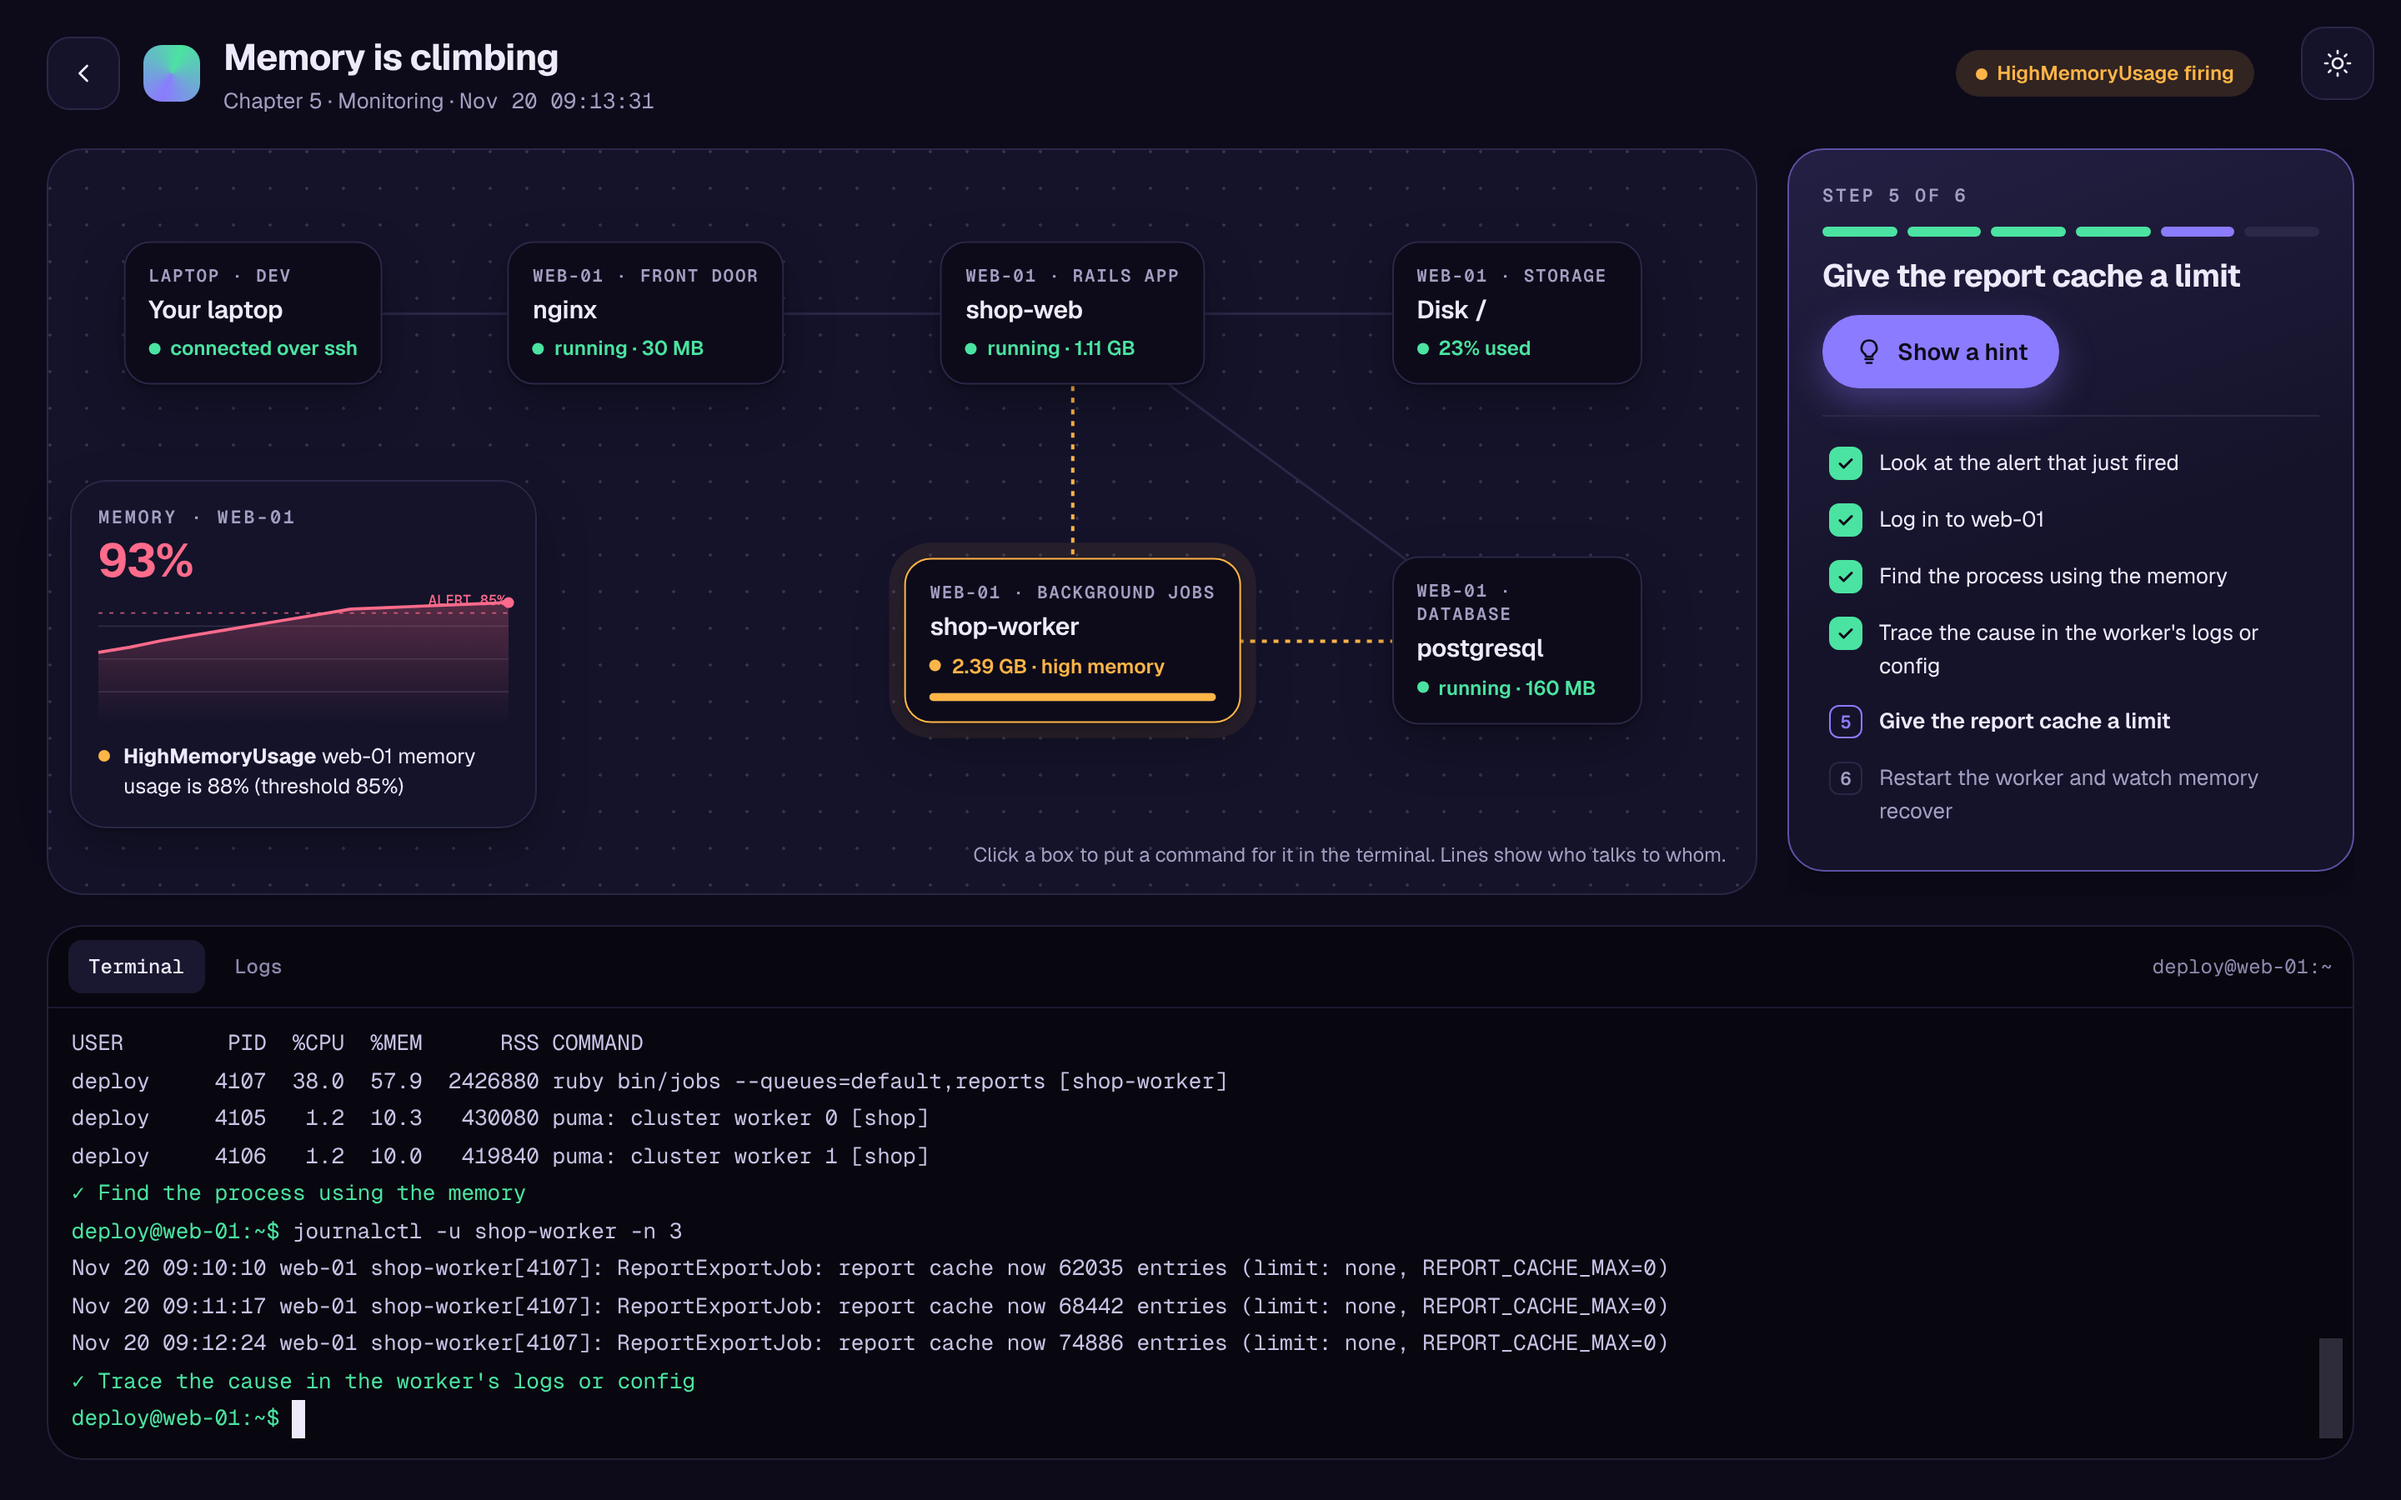
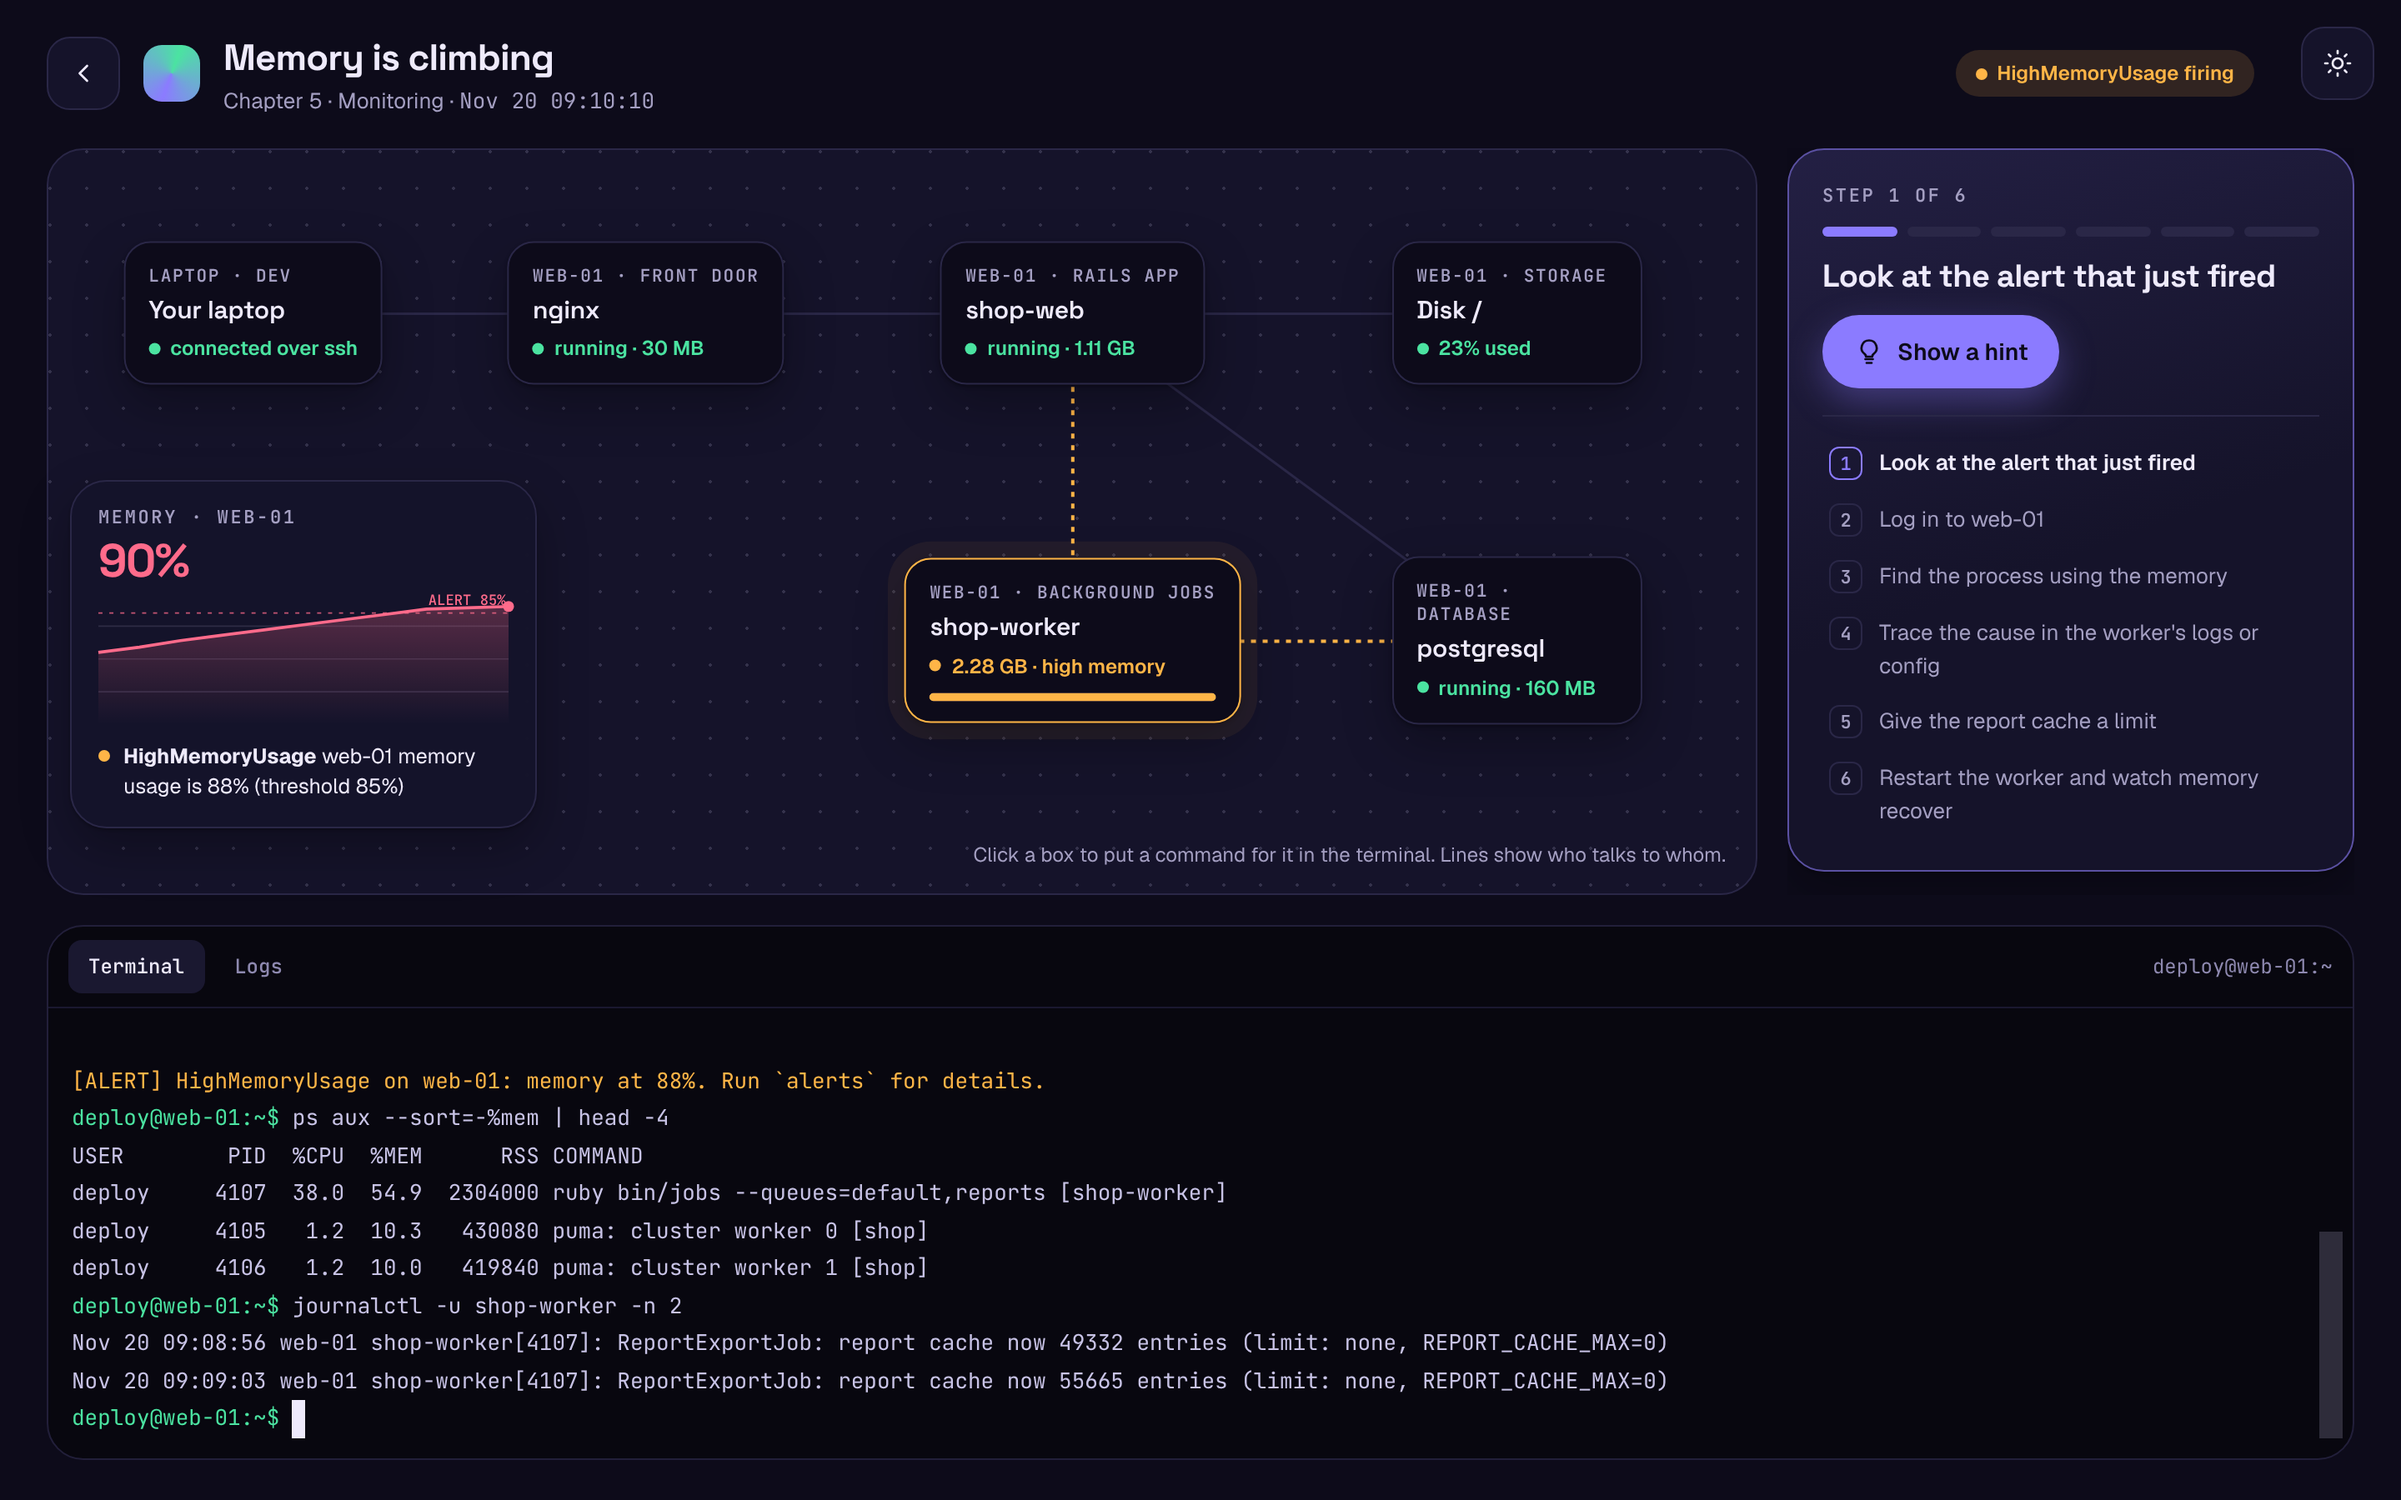
Use Space Grotesk headings and JetBrains Mono
Headings, map box names and metrics use Space Grotesk, body text stays on
Geist, and the terminal, logs and labels use JetBrains Mono. The terminal
re-measures its cells once the web font loads. The README screenshot is
updated to match.

diff --git a/frontend/src/components/Terminal.tsx b/frontend/src/components/Terminal.tsx
@@ -21,6 +21,7 @@ interface Props {
 
 const COLORS = { amber: '\x1b[38;2;255;181;71m', green: '\x1b[38;2;75;227;161m', muted: '\x1b[38;2;142;137;176m', red: '\x1b[38;2;255;143;166m' }
 const RESET = '\x1b[0m'
+const FONT = '"JetBrains Mono", ui-monospace, monospace'
 
 // A small line editor on top of xterm.js: typing, backspace, left/right,
 // history with up/down, Ctrl+C, Ctrl+L and paste. Commands go to the server.
@@ -68,7 +69,7 @@ export const Terminal = forwardRef<TerminalHandle, Props>(function Terminal({ pr
 
   useEffect(() => {
     const t = new XTerm({
-      fontFamily: '"Geist Mono", ui-monospace, monospace',
+      fontFamily: FONT,
       fontSize: 13,
       lineHeight: 1.35,
       cursorBlink: true,
@@ -91,6 +92,13 @@ export const Terminal = forwardRef<TerminalHandle, Props>(function Terminal({ pr
       if (dims && (dims.cols !== t.cols || dims.rows !== t.rows)) fit.fit()
     })
     resize.observe(host.current!)
+    // The web font may arrive after xterm measured its cells. Re-measure once it's loaded.
+    void document.fonts?.load('13px "JetBrains Mono"').then(() => {
+      if (term.current !== t) return
+      t.options.fontFamily = 'monospace'
+      t.options.fontFamily = FONT
+      if (host.current?.offsetWidth) fit.fit()
+    })
     t.onResize(() => redrawLine())
     if (intro) t.write(COLORS.muted + intro.replace(/\r?\n/g, '\r\n') + RESET + '\r\n\r\n')
     redrawLine()

diff --git a/frontend/src/styles.css b/frontend/src/styles.css
@@ -3,7 +3,8 @@
 :root,
 [data-theme='dark'] {
   --font-sans: 'Geist', system-ui, sans-serif;
-  --font-mono: 'Geist Mono', ui-monospace, monospace;
+  --font-mono: 'JetBrains Mono', ui-monospace, monospace;
+  --font-display: 'Space Grotesk', 'Geist', system-ui, sans-serif;
 
   --ground: #0D0B1A;
   --surface: #15132A;
@@ -48,6 +49,7 @@ body { font: 14px/1.5 var(--font-sans); color: var(--ink); background: var(--gro
 h1, h2 { margin: 0; letter-spacing: -0.02em; }
 p { margin: 0; }
 button { font: inherit; color: inherit; }
+h1, h2, .node-name, .metric, .chapter-n { font-family: var(--font-display); }
 :focus-visible { outline: none; box-shadow: var(--focus); }
 .mono { font-family: var(--font-mono); }
 .muted { color: var(--muted); }

diff --git a/frontend/index.html b/frontend/index.html
@@ -8,7 +8,7 @@
     <title>DevOps Simulator</title>
     <link rel="preconnect" href="https://fonts.googleapis.com" />
     <link rel="preconnect" href="https://fonts.gstatic.com" crossorigin />
-    <link href="https://fonts.googleapis.com/css2?family=Geist:wght@400;500;600;700&family=Geist+Mono:wght@400;500;600&display=swap" rel="stylesheet" />
+    <link href="https://fonts.googleapis.com/css2?family=Geist:wght@400;500;600;700&family=JetBrains+Mono:wght@400;500;600&family=Space+Grotesk:wght@500;600;700&display=swap" rel="stylesheet" />
   </head>
   <body>
     <div id="root"></div>

diff --git a/CLAUDE.md b/CLAUDE.md
@@ -13,7 +13,7 @@
   `scenarios/*.rb` (one chapter each, listed in `scenarios.rb`). Delivery chapters use `repo.rb` (fake git),
   `delivery_commands.rb` (git, gh, bin/rails test, deploy), `delivery_ci.rb` and `delivery_world.rb`.
 - `frontend/`: React + TypeScript (Vite), xterm.js terminal. Play screen is `src/components/PlayScreen.tsx`.
-- UI follows Royal's UI style rules (Geist, motion, accessibility) with this app's own "System map" theme in
+- UI follows Royal's UI style rules (motion, accessibility). Type: Space Grotesk headings, Geist body, JetBrains Mono for terminal and labels, with this app's own "System map" theme in
   `frontend/src/styles.css`. Don't reuse the helpdesk look (dark sidebar + blue pill).
 
 ## Checks before opening a pull request
